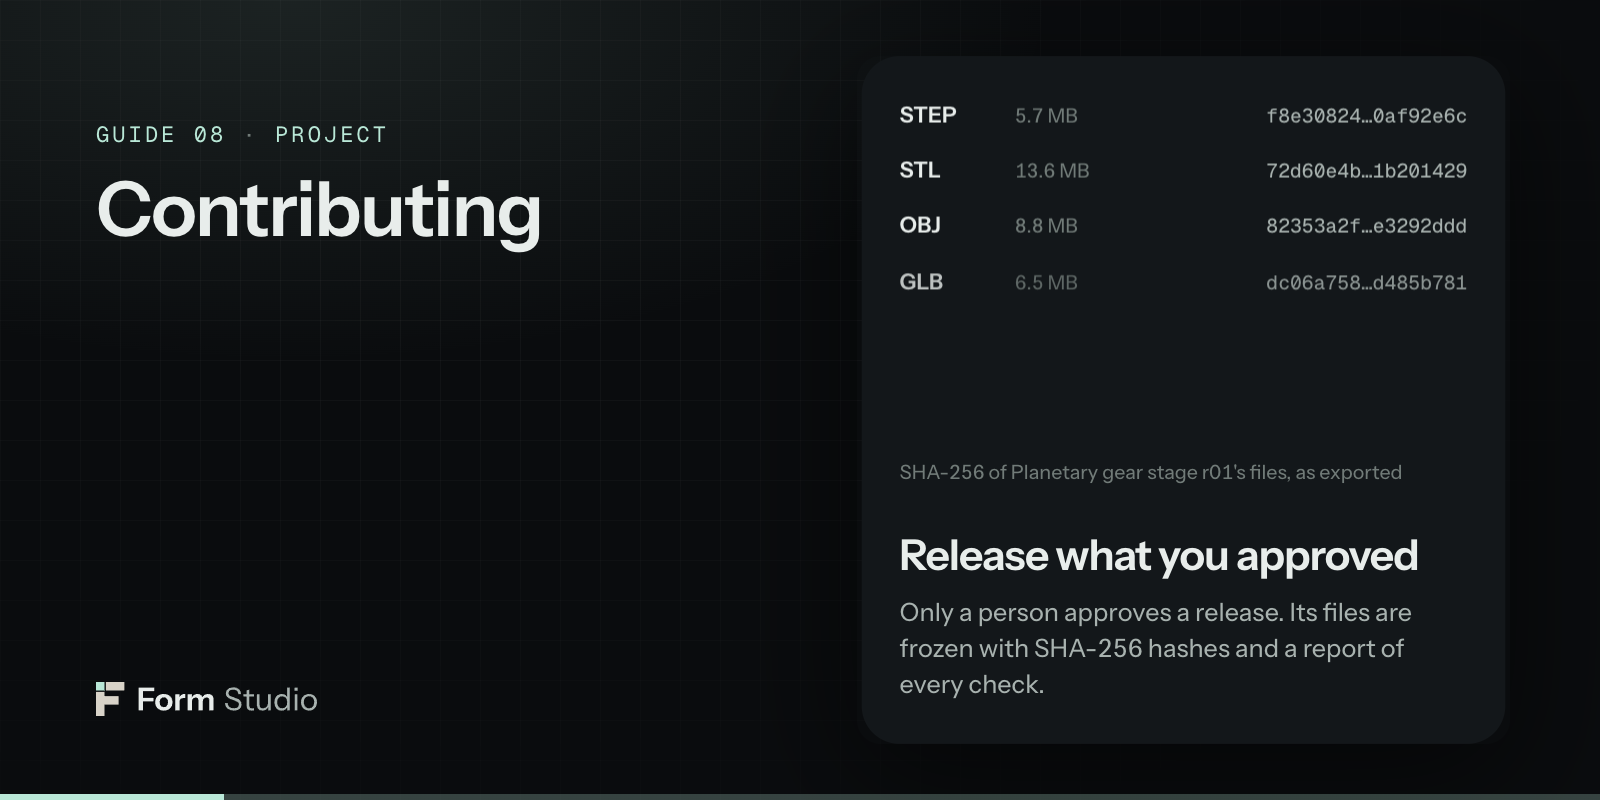
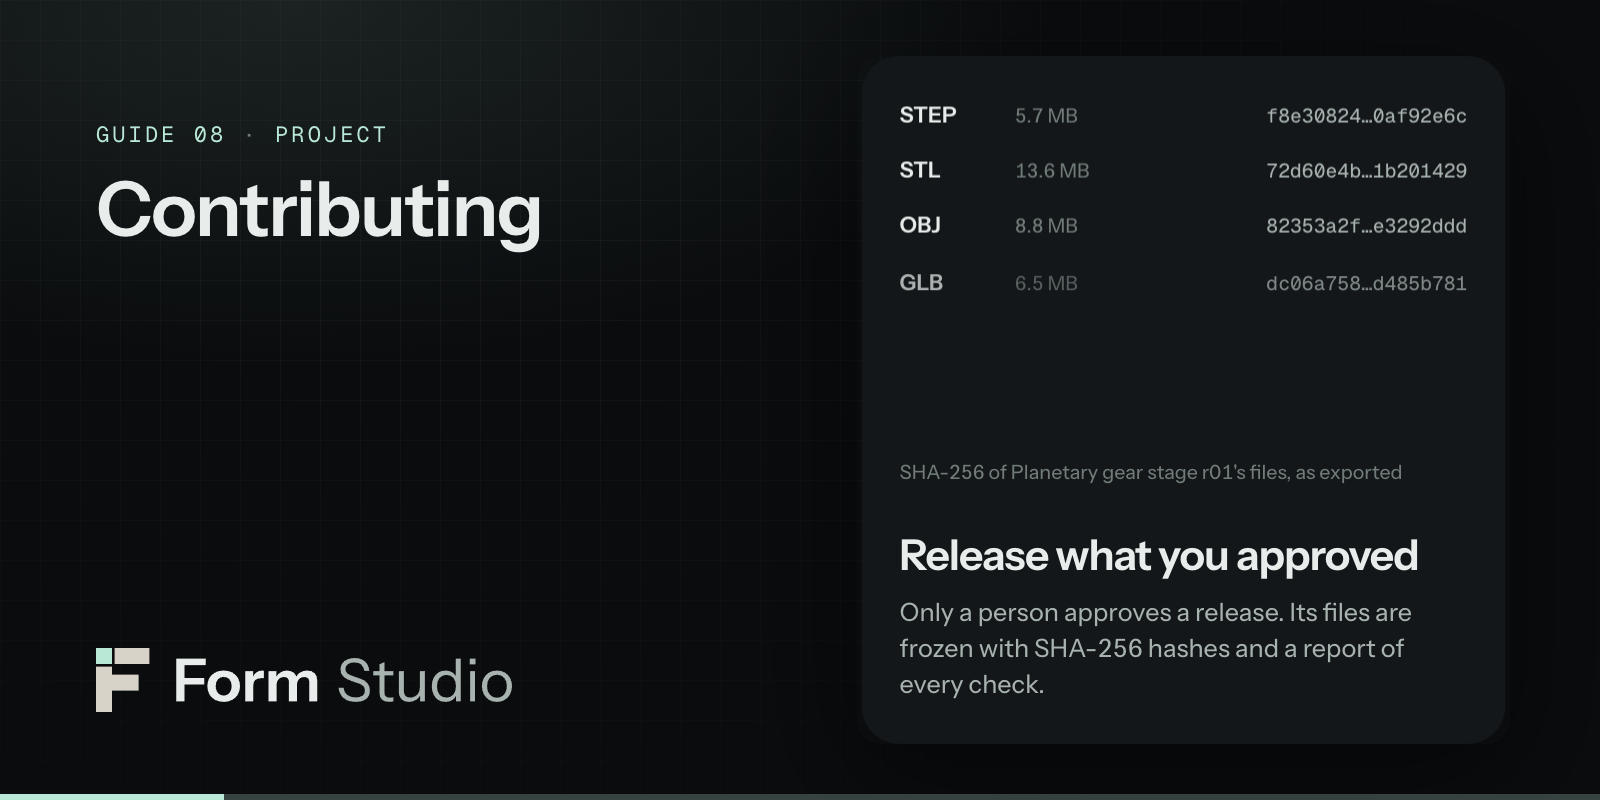
Discord guide covers carry the larger lockup (64 px on the 800 px cover)

Changed region(s): [[0.0625, 0.8125, 0.3438, 0.9062], [0.7812, 0.3438, 0.9062, 0.375], [0.5625, 0.3438, 0.5938, 0.375]]

diff --git a/scripts/discord/art/render.py b/scripts/discord/art/render.py
@@ -37,7 +37,7 @@ h1{{font-weight:620;letter-spacing:-.02em;line-height:1.02;margin:22px 0 0}}
 p{{font-size:30px;line-height:1.38;color:#a8b2af;font-weight:420;margin:26px 0 0}}
 .datum{{position:absolute;left:0;bottom:0;height:6px;width:100%;background:linear-gradient(90deg,#b9e8d7 0 14%,
  rgba(185,232,215,.25) 14% 100%)}}
-.lockup{{position:absolute;height:34px}}
+.lockup{{position:absolute;height:64px}}
 """
 
 
@@ -67,7 +67,7 @@ def guide(i, title, tag, art):
  <div class='kicker'>Guide {i:02d} <i>·</i> {html.escape(tag)}</div>
  <h1 style='font-size:{76 if len(title) < 30 else 62}px'>{html.escape(title)}</h1>
 </div>
-<img class='lockup' src='{LOCKUP}' style='left:96px;bottom:84px'>"""
+<img class='lockup' src='{LOCKUP}' style='left:96px;bottom:88px'>"""
     return page(W, H, body)
 
 
